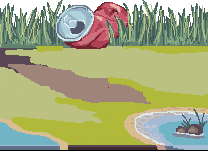
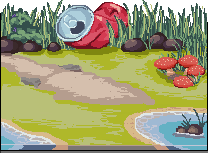
update

diff --git a/mysnail/picnic.js b/mysnail/picnic.js
@@ -1,0 +1,121 @@
+//This data could come from a CMS/editor/any nicer UI for editing game events
+var scenarios = [
+    {
+       //No toys
+       "required": [],
+       "bypass": ["OneToy"],
+       "text": "Let's have a picnic! We need a mat"
+    },
+    {
+       //Just one toy: the bone
+       "required": ["Bone"],
+       "bypass": ["TwoToys"],
+       "text": "Nice! How about let's get something to drink?"
+    },
+    {
+       //Any one toy
+       "required": ["OneToy"],
+       "bypass": ["TwoToys"],
+       "text": "Let's find some stuff to eat!",
+    },
+    {
+       //Any two but no rabbit toy
+       "required": ["TwoToys"],
+       "bypass": ["Rabbit", "ThreeToys"],
+       "text": "We're getting there! Can you help me get me some of my favorite food?",
+    },
+    {
+       //Any two, one is rabbit
+       "required": ["TwoToys"],
+       "bypass": ["ThreeToys"],
+       "text": "So glad we have the rabbit.",
+    },
+    {
+       //Any three
+       "required": ["ThreeToys"],
+       "bypass": ["FourToys"],
+       "text": "Only one left to go!",
+    },
+    {
+       //All four!
+       "required": ["FourToys"],
+       "bypass": [],
+       "text": "Yay! We have the perfect picnic!",
+    },  
+ ]
+ 
+ var computedStoryPoints = {
+    "requires": [ "Bone", "Rubber", "Ball", "Rabbit" ],
+    "quantities": [
+       [1, "OneToy"],
+       [2, "TwoToys"],
+       [3, "ThreeToys"],
+       [4, "FourToys"]
+    ]
+ }
+ 
+ //Functionality for click binding to add/remove story points
+ var toys = document.querySelectorAll(".toy");
+ toys.forEach(toy => {
+    toy.addEventListener("click", () => {
+       toy.classList.toggle("rescued");
+       toggleStoryPoint( toy.getAttribute("story-point") )
+       refreshScenario();
+    })
+ });
+ 
+ 
+ //---------------------- Story Points ---------------------------
+ 
+ //Story point state mechanism
+ var storyPoints = {};
+ 
+ function toggleStoryPoint(incomingStoryPoint) {
+    //Remove if we had it
+    if (storyPoints[incomingStoryPoint]) {
+       delete storyPoints[incomingStoryPoint]
+    } else {
+       //Otherwise, add it
+       storyPoints[incomingStoryPoint] = true;
+    }
+ }
+ 
+ function getAllKnownStoryPoints() { 
+    
+    //Figure out the computed story points we also own
+    var acquiredCount = computedStoryPoints.requires.filter(sp => {
+       return storyPoints[sp]
+    }).length; //EX: 3
+    
+    var computed = {};
+    computedStoryPoints.quantities.forEach(q => {
+       if (acquiredCount >= q[0]) {
+          computed[q[1]] = true;
+       }
+    })
+    
+    //Combine with all known story points
+    return {
+       ...storyPoints,
+       ...computed
+    }
+ }
+ 
+ //Update the view
+ function refreshScenario() {
+    var known = getAllKnownStoryPoints();
+    var scenario = scenarios.find(s => {
+    
+       //Validate that we don't have any bypassers
+       for (var i=0; i<=s.bypass.length; i++) {
+          if ( known[s.bypass[i]] ) {
+             return false;
+          }
+       }
+       
+       //Validate that we have all of them
+       return s.required.every(entry => known[entry])
+    })
+    
+    document.querySelector(".js-text").textContent = scenario.text;
+ }

diff --git a/mysnail/picnic.css b/mysnail/picnic.css
@@ -1,0 +1,92 @@
+:root {
+    --pixel-size: 2px;
+    --grid-cell: calc( var(--pixel-size) * 16);
+    --bg: #e4c89f;
+ }
+ @media( min-width: 700px ) {
+    :root {
+       --pixel-size: 3px;
+    }
+ }
+ @media( min-width: 1000px ) {
+    :root {
+       --pixel-size: 4px;
+    }
+ }
+
+
+ .toy {
+    cursor: pointer;
+    position: absolute;
+ }
+ 
+
+ 
+ .toy1 {
+    background-image: url(picnic/leaf.png);
+    width: calc( var(--grid-cell)* 5.5 );
+    height: calc( var(--grid-cell)* 5.5 );
+    background-size: 100%;
+    left: calc(var(--pixel-size) * -10);
+    top: calc(var(--pixel-size) * 65);
+ }
+ .toy1.rescued {
+    left: calc(var(--pixel-size) * 30);
+    top: calc(var(--pixel-size) * 55);
+ }
+ 
+ .toy2 {
+    background-image: url(picnic/cap.png);
+    width: calc( var(--grid-cell)* 1.5 );
+    height: calc( var(--grid-cell)* 1.5 );
+    background-size: 100%;
+    left: calc(var(--pixel-size) * 170);
+    top: calc(var(--pixel-size) * 90);
+ }
+ .toy2.rescued {
+    left: calc(var(--pixel-size) * 80);
+    top: calc(var(--pixel-size) * 85);
+ }
+ 
+ .toy3 {
+   background-image: url(picnic/mushroom.png);
+   width: calc( var(--grid-cell)* 2 );
+   height: calc( var(--grid-cell)* 2 );
+   background-size: 100%;
+   left: calc(var(--pixel-size) * 155);
+   top: calc(var(--pixel-size) * 54);
+ }
+ .toy3.rescued {
+   left: calc(var(--pixel-size) * 60);
+   top: calc(var(--pixel-size) * 70);
+ }
+ 
+ .toy4 {
+   background-image: url(picnic/berry.png);
+   width: calc( var(--grid-cell)* 1.5 );
+   height: calc( var(--grid-cell)* 1.5 );
+   background-size: 100%;
+   left: calc(var(--pixel-size) * 20);
+   top: calc(var(--pixel-size) * 18);
+ }
+ .toy4.rescued {
+   left: calc(var(--pixel-size) * 45);
+   top: calc(var(--pixel-size) * 80);
+ }
+ 
+ 
+ .text-container {
+    display: flex;
+    justify-content: center;
+    z-index: 4;
+    margin-bottom: -40rem;
+ }
+ .text-container p {
+    text-align: center;
+    font-family: futura;
+    background: #000;
+    color: #fff;
+    padding: 1em;
+    margin: 0;
+    font-size: 1.1em;
+ }

diff --git a/mysnail/index.html b/mysnail/index.html
@@ -8,22 +8,26 @@
     <link rel="stylesheet" href="https://use.typekit.net/jfl3ids.css">
     <link rel="stylesheet" href="https://use.typekit.net/jfl3ids.css">
     <!-- add reset to create consistency between browsers and devices. -->
-    <link rel="stylesheet" type="text/css" href="./reset.css">
     <link rel="stylesheet" type="text/css" href="./style.css">
+    <link rel="stylesheet" type="text/css" href="./picnic.css">
     <!-- add link to your javascript. be sure it includes "defer" -->
     <script type="text/javascript" src="./script.js" defer></script>
+    <script type="text/javascript" src="./picnic.js" defer></script>
 </head>
 
 <body>
 
     <div class="buttholder">
-
         <input type="text" id="input" placeholder="Name your snail!">
         <button class="btn" onclick="red()">Red</button>
         <button class="btn" onclick="blue()">Blue</button>
         <button class="btn" onclick="green()">Green</button>
-        
      </div>
+
+
+<div class="text-container">
+     <p class="js-text">Let's have a picnic!</p>
+ </div>
 
     
 <div class="frame">
@@ -35,6 +39,17 @@
     
     <div class="camera">
        <div class="map pixel-art">
+
+   
+        <!-- Toys -->
+        <div class="pixelart toy toy1" story-point="Bone"></div>
+        <div class="pixelart toy toy2" story-point="Ball"></div>
+        <div class="pixelart toy toy3" story-point="Rubber"></div>
+        <div class="pixelart toy toy4" story-point="Rabbit"></div>
+        
+
+
+
           <div class="character" facing="down" walking="true">
              <div class="shadow pixel-art"></div>
              <div class="character_spritesheet pixel-art"></div>

diff --git a/mysnail/script.js b/mysnail/script.js
@@ -142,33 +142,21 @@ var i;
 // Two images side by side
 function red() {
     for (i = 0; i < elements.length; i++) {
-    elements[i].style.background = "url('snail/redsnail.png')";  // IE10
-    elements[i].style.backgroundSize = "100%";
-    elements[i].style.position = "absolute"; 
-    elements[i].style.width = "calc( var(--grid-cell)* 8 )"; 
-    elements[i].style.height = "calc( var(--grid-cell)* 8 )"; 
+    elements[i].style.filter = "hue-rotate(180deg)";
   }
 }
 
 // five images side by side
 function blue() {
   for (i = 0; i < elements.length; i++) {
-    elements[i].style.background = "url('snail/bluesnail.png')";  // IE10
-    elements[i].style.backgroundSize = "100%"; 
-    elements[i].style.position = "absolute"; 
-    elements[i].style.width = "calc( var(--grid-cell)* 8 )"; 
-    elements[i].style.height = "calc( var(--grid-cell)* 8 )"; 
+   elements[i].style.filter = "hue-rotate(60deg)";
   }
 }
 
 // 10 images side by side
 function green() {
   for (i = 0; i < elements.length; i++) {
-    elements[i].style.background = "url('snail/greensnail.png')";  // IE10
-    elements[i].style.backgroundSize = "100%"; 
-    elements[i].style.position = "absolute"; 
-    elements[i].style.width = "calc( var(--grid-cell)* 8 )"; 
-    elements[i].style.height = "calc( var(--grid-cell)* 8 )"; 
+   elements[i].style.filter = "hue-rotate(0)";
 }
 }
 

diff --git a/mysnail/style.css b/mysnail/style.css
@@ -80,14 +80,14 @@ h1 {
     height: calc(var(--pixel-size) * 144);
     outline: var(--pixel-size) solid rgb(128, 156, 132);
     z-index:1; 
-    position:relative;
+    position:absolute;
  }
  
  .camera {
     width: calc(var(--pixel-size) * 160);
     height: calc(var(--pixel-size) * 144);
     overflow: hidden;
-    background: #789e7b;
+    background: #b3e2ec;
     position:relative;
  }
  
@@ -124,7 +124,7 @@ h1 {
     width: calc( var(--grid-cell)* 8 );
     height: calc( var(--grid-cell)* 8 );
  }
- 
+  
  .character[facing="right"] .character_spritesheet {
     background-position-y: calc( var(--pixel-size) * -32 );
  }
